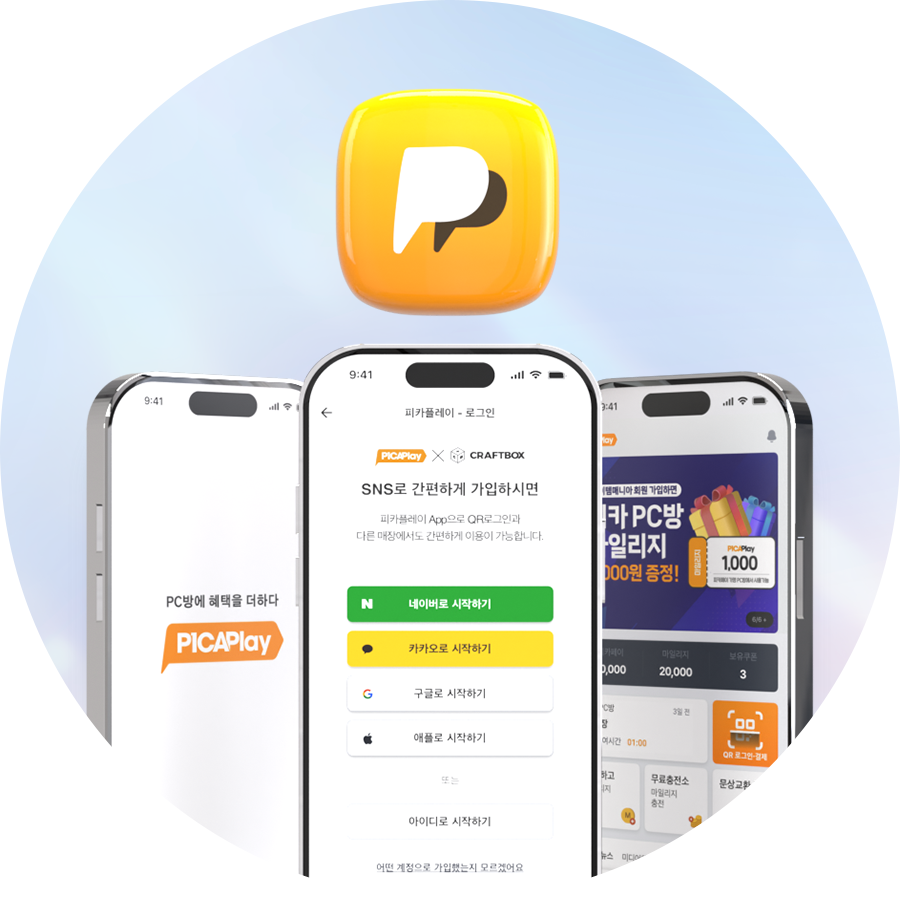
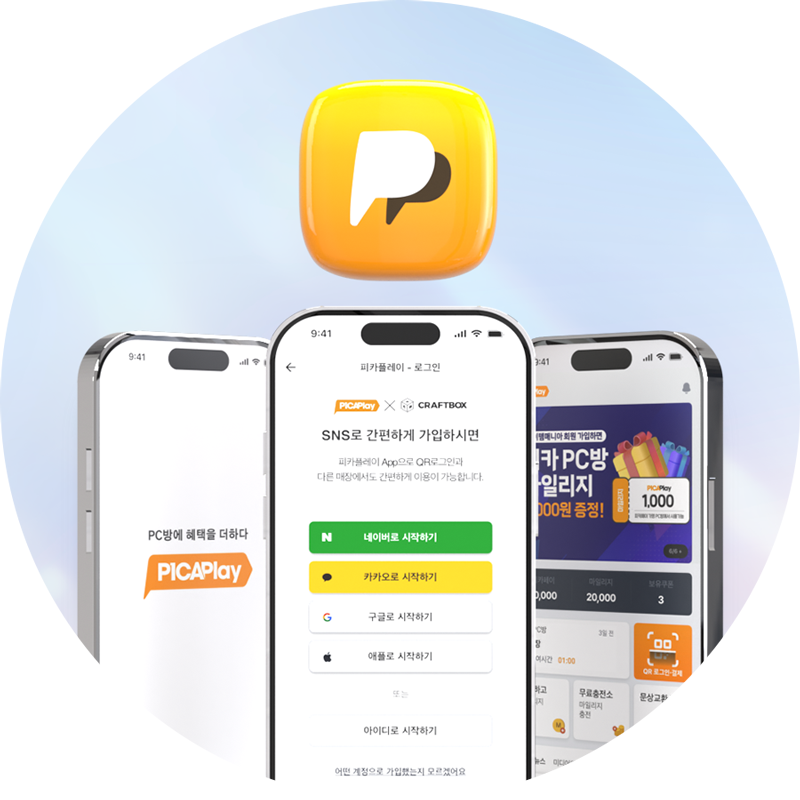
이벤트 페이지 이미지 및 HTML 업데이트
- PNG → JPG 포맷 변환 (img_fun_games, img_hero_bg)
- 히어로/스텝/QR 이미지 교체
- event_qr_v2.html 내용 수정

diff --git a/event-project/public/event_qr_v2.html b/event-project/public/event_qr_v2.html
@@ -259,7 +259,7 @@
           </div>
         </div>
         <div class="benefit-row__img">
-          <img src="assets/img_fun_games.png" alt="재밌게 받아요">
+          <img src="assets/img_fun_games.jpg" alt="재밌게 받아요">
         </div>
       </div>
 
